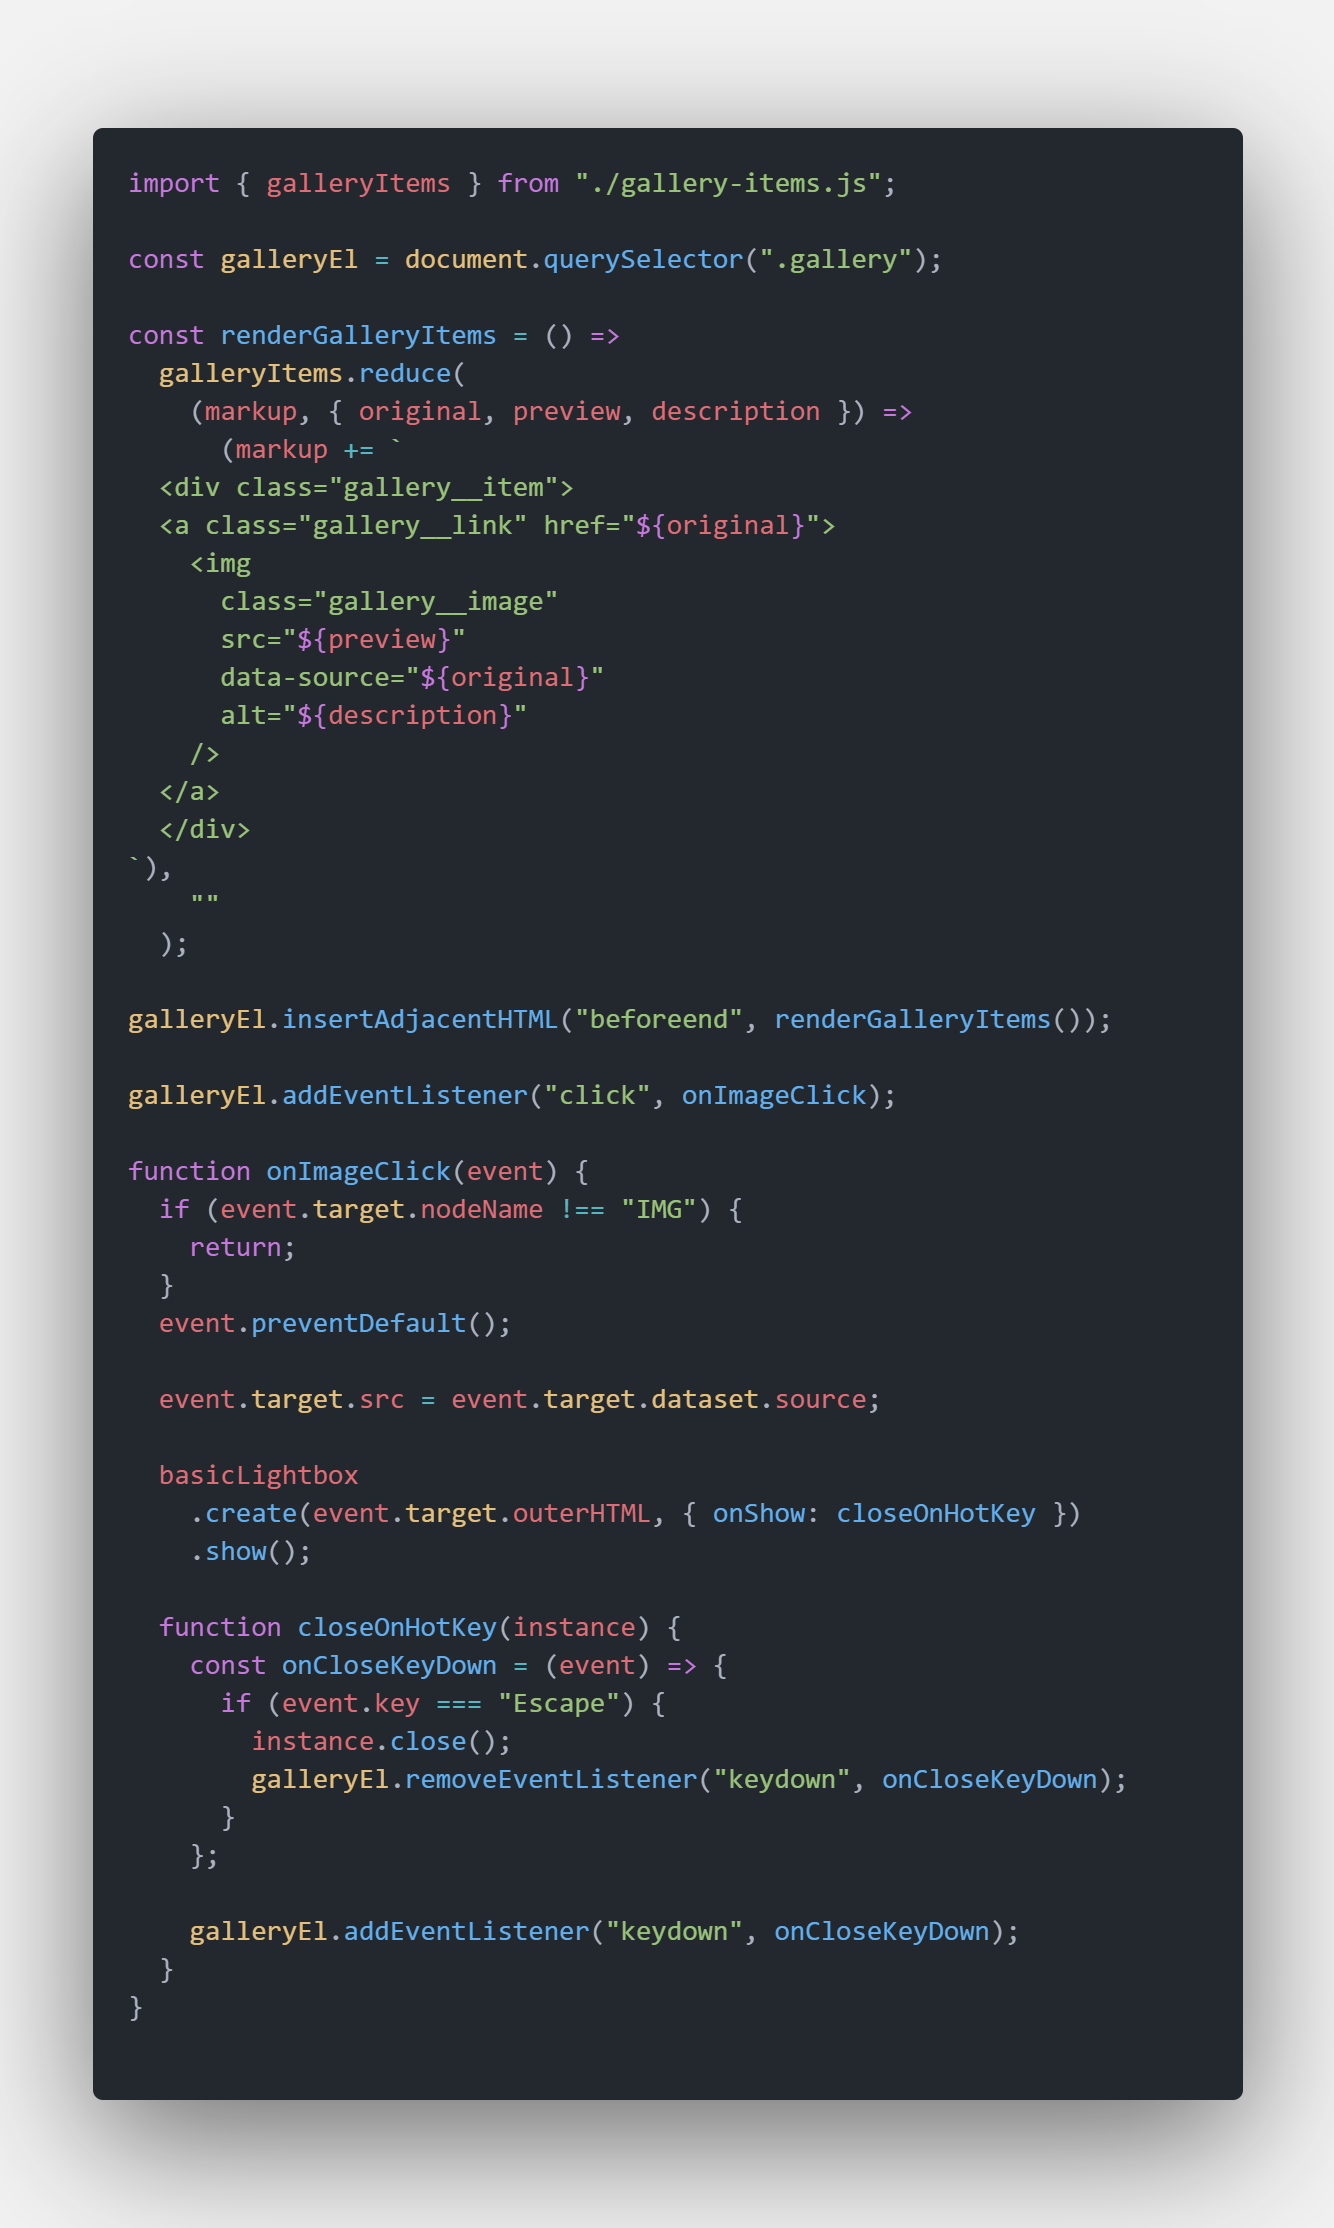
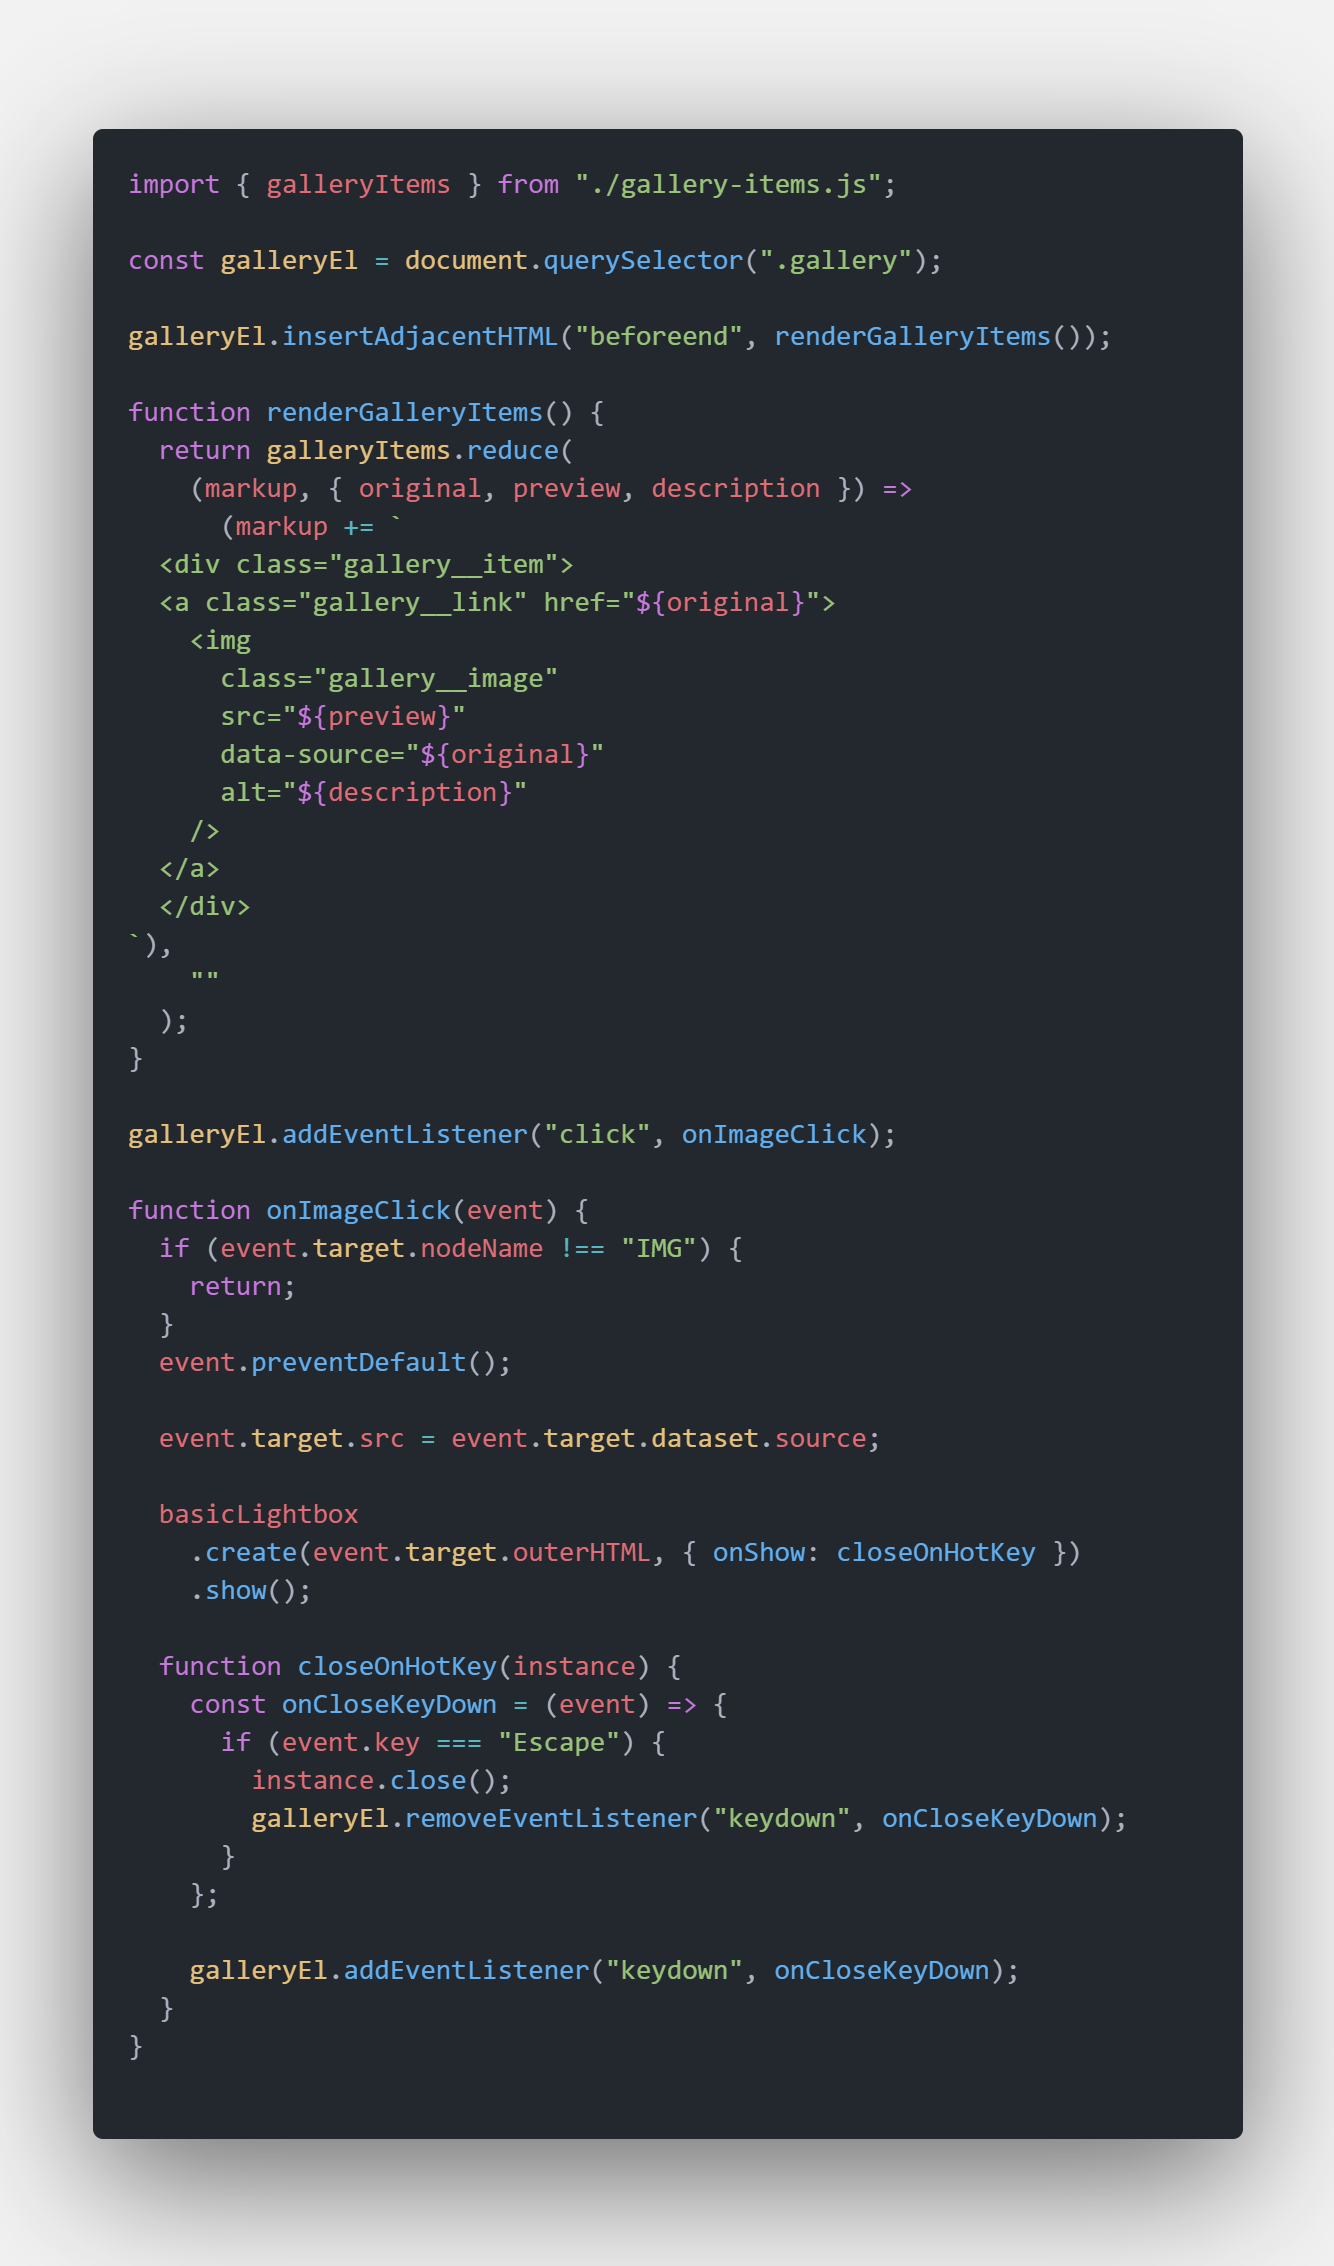
clean code

diff --git a/js/01-gallery.js b/js/01-gallery.js
@@ -2,8 +2,10 @@ import { galleryItems } from "./gallery-items.js";
 
 const galleryEl = document.querySelector(".gallery");
 
-const renderGalleryItems = () =>
-  galleryItems.reduce(
+galleryEl.insertAdjacentHTML("beforeend", renderGalleryItems());
+
+function renderGalleryItems() {
+  return galleryItems.reduce(
     (markup, { original, preview, description }) =>
       (markup += `
   <div class="gallery__item">
@@ -19,8 +21,7 @@ const renderGalleryItems = () =>
 `),
     ""
   );
-
-galleryEl.insertAdjacentHTML("beforeend", renderGalleryItems());
+}
 
 galleryEl.addEventListener("click", onImageClick);
 
